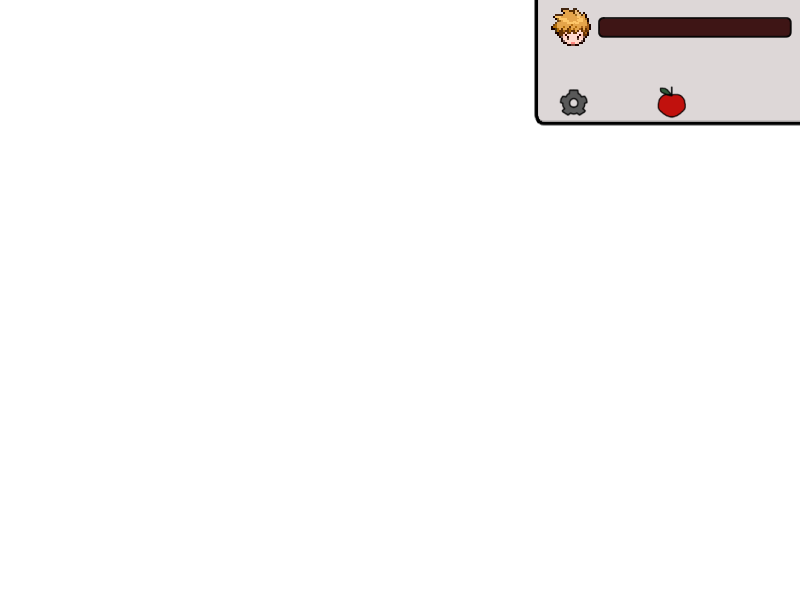
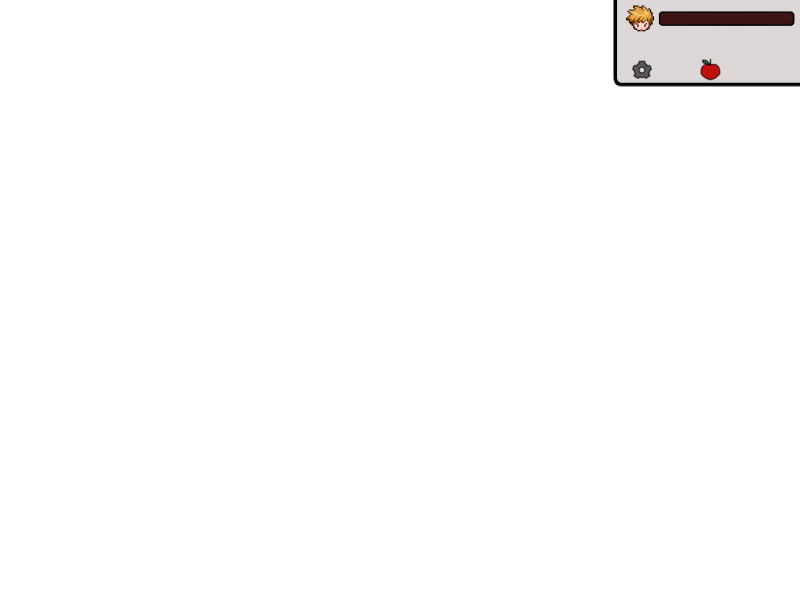
common에 정의한 변수로 변경 레벨, 레벨업, 공격속도, 공격력, 체력

Changed region(s): [[0.6562, 0.0, 1.0, 0.21]]

diff --git a/code/player_ui.py b/code/player_ui.py
@@ -1,10 +1,48 @@
 from pico2d import *
+import common
+
 
 class PlayerUI:
     def __init__(self):
-        self.image = load_image('images/player_ui.png')
-        self.player_health_image = load_image('images/player_heart.png')
-        pass
+        self.image = load_image('images/playmode_ui.png')
+        self.player_health_image = load_image('images/heart_bar2.png')
+        self.y=0
 
     def draw(self):
+        # ...existing code...
+        self.image.draw(400, 300)
+
+        # heart_bar2.png 원본 크기
+        max_w = 135
+        h = 14
+
+        # 안전한 비율 계산 (0..1)
+        ratio = 0.0
+        if getattr(common, 'player_max_heart', 0) > 0:
+            ratio = max(0.0, min(1.0, common.player_heart / common.player_max_heart))
+
+        cur_w = int(max_w * ratio)
+
+        # 기존 코드가 중앙 x=726를 사용하므로, 왼쪽 기준 좌표 계산
+        left_x = 726 - (max_w / 2)
+
+        # pico2d의 clip_draw은 중심 좌표로 그리므로, 왼쪽 정렬을 위해서는
+        # 중심 = 왼쪽 + 현재너비/2 를 사용
+        if cur_w > 0:
+            draw_x = left_x + (cur_w / 2)
+            self.player_health_image.clip_draw(0, 0, cur_w, h, int(draw_x), 581)
+        # ...existing code...
+
+    def update(self):
         pass
+
+    def clear(self):
+        del self.image
+        del self.player_health_image
+
+    def get_bb(self):
+        pass
+
+    def handle_collision(self, key, other):
+        pass
+

diff --git a/code/player.py b/code/player.py
@@ -1,6 +1,7 @@
 from pico2d import *
 from sdl2 import *
 
+import common
 import game_world
 import game_framework  # 수정: from code import game_framework → import game_framework
 from state_machine import StateMachine
@@ -258,6 +259,9 @@ class Player:
             self.state_machine.cur_state = self.IDLE
             self.IDLE.enter(('STOP', None))
 
+        # 총알 발사 딜레이 관리
+        BULLET_COOLDOWN = 1.0 / common.player_attack_speed
+
         self.gun_delay_timer += game_framework.frame_time
         if self.gun_delay_timer >= BULLET_COOLDOWN:
             self.gun_delay_timer = 0.0  # 타이머를 0으로 리셋
@@ -348,8 +352,7 @@ class Player:
             if self.heart_delay_flag:
                 self.heart_delay_flag = False
                 self.heart_delay_timer = 0.0  # frame_time 기반 누적 타이머로 변경
-                self.heart -= 3  # HP 감소 코드 추가
-                print(f"Player heart decreased -> {self.heart}")
+                common.player_heart -= 3  # HP 감소 코드 추가
 
             # gameover 판단 및 push는 play_mode에서 처리합니다.
 

diff --git a/code/mode/play_mode.py b/code/mode/play_mode.py
@@ -17,6 +17,8 @@ from map_data import *
 import random
 from car import Car
 from zombie_spawner import ZombieSpawner
+from player_ui import PlayerUI
+import common
 
 
 def handle_events():
@@ -35,6 +37,9 @@ def init():
 
     # 게임 월드 완전 초기화 (혹시 남아있는 객체들 제거)
     game_world.clear()
+
+    player_ui = PlayerUI()
+    game_world.add_object(player_ui, 2)
 
     map = Map()
     game_world.add_object(map, 0)
@@ -93,9 +98,9 @@ def update():
     game_world.handle_collisions()
 
     # 플레이어 HP가 0 이하가 되면 게임오버 모드로 전환 (한 번만)
-    if 'player' in globals() and player is not None and getattr(player, 'heart', 1) <= 0:
+    if 'player' in globals() and player is not None and common.player_heart <= 0:
         if not getattr(player, 'gameover_pushed', False):
-            print(f"Player heart {player.heart} <= 0 -> pushing gameover mode")
+            print(f"Player heart {common.player_heart} <= 0 -> pushing gameover mode")
             player.gameover_pushed = True
             game_framework.change_mode(gameover_mode)
     pass

diff --git a/code/zombie.py b/code/zombie.py
@@ -6,6 +6,7 @@ import math
 import game_world
 import game_framework
 from state_machine import StateMachine
+import common
 
 # zombie Run Speed
 PIXEL_PER_METER = (75.0 / 1.8)  # 75 pixel 1.8 meter
@@ -238,9 +239,16 @@ class Zombie:
                 self.x += nx * push_force
                 self.y += ny * push_force
         elif key == "zombie:gun":
-            self.heart -= 5
+            self.heart -= common.player_attack_power
             self.damage_flag = 4
             self.damage_timer = get_time()
 
             if self.heart <= 0:
                 game_world.remove_object(self)
+                common.zombie_num += 1
+                if common.zombie_num > 20 * common.level:
+                    common.zombie_num = 0
+                    common.level += 1
+                    common.player_max_heart +=30
+                    common.player_heart = common.player_max_heart
+

diff --git a/code/mode/title_mode.py b/code/mode/title_mode.py
@@ -5,6 +5,7 @@ sys.path.append(os.path.dirname(os.path.dirname(__file__)))
 
 import game_framework
 from . import lobby_mode
+import common
 
 image_back, image_pc, image_zom, image_font = None, None, None, None
 timer_pc, timer_zom, timer_font = 0.0, 0.0, 0.0
@@ -26,6 +27,15 @@ def init():
 def finish():
     global image_back, image_pc, image_zom, image_font
     del image_back, image_pc, image_zom, image_font
+
+    common.player_heart = 100
+    common.player_max_heart = 100
+    common.player_attack_power = 10
+    common.player_attack_speed = 1.0
+    common.apple = 0
+    common.gear = 0
+    common.round = 1
+
 
 def update():
     global timer_pc, timer_zom, timer_font

diff --git a/code/mode/lobby_mode.py b/code/mode/lobby_mode.py
@@ -14,6 +14,7 @@ from zombie2 import Zombie2
 import random
 from container import Container
 from lobby_car import Car
+from player_ui import PlayerUI
 
 def init():
     global image, player, zombies, container, car
@@ -30,6 +31,9 @@ def init():
 
     car = Car()
     game_world.add_object(car, 0)
+
+    player_ui = PlayerUI()
+    game_world.add_object(player_ui, 2)
 
 def finish():
     game_world.clear()

diff --git a/code/common.py b/code/common.py
@@ -1,10 +1,10 @@
-from player_ui import *
-
 apple = 0
 gear = 0
 player_max_heart = 100
 player_heart = 100
-player_attack_speed = 1.0
-player_attack_power = 10
+player_attack_speed = 5.0
+player_attack_power = 5
+zombie_num = 0
 round = 1
+level = 1
 
